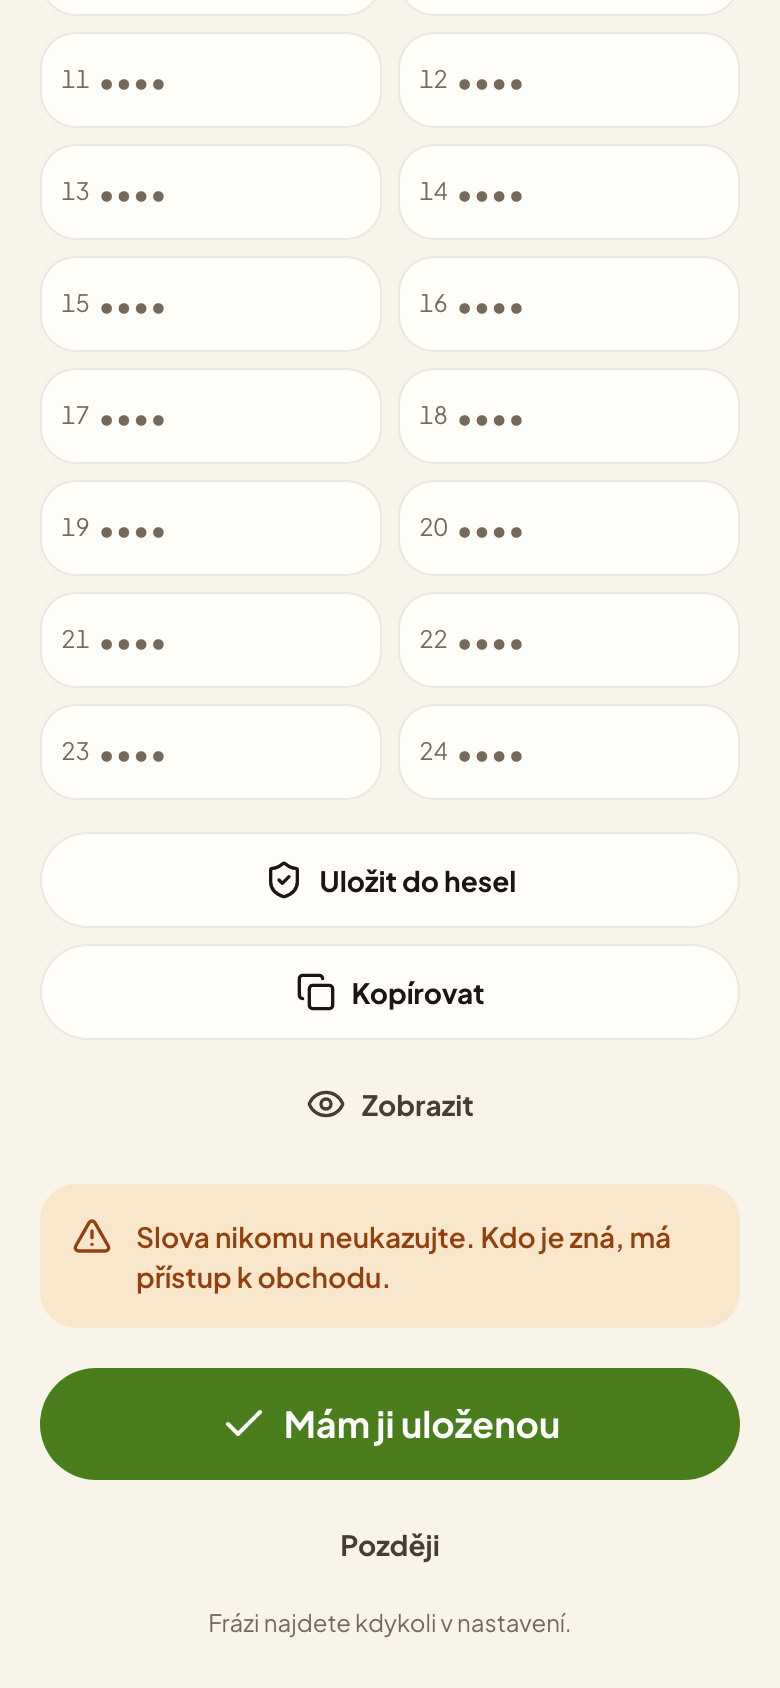
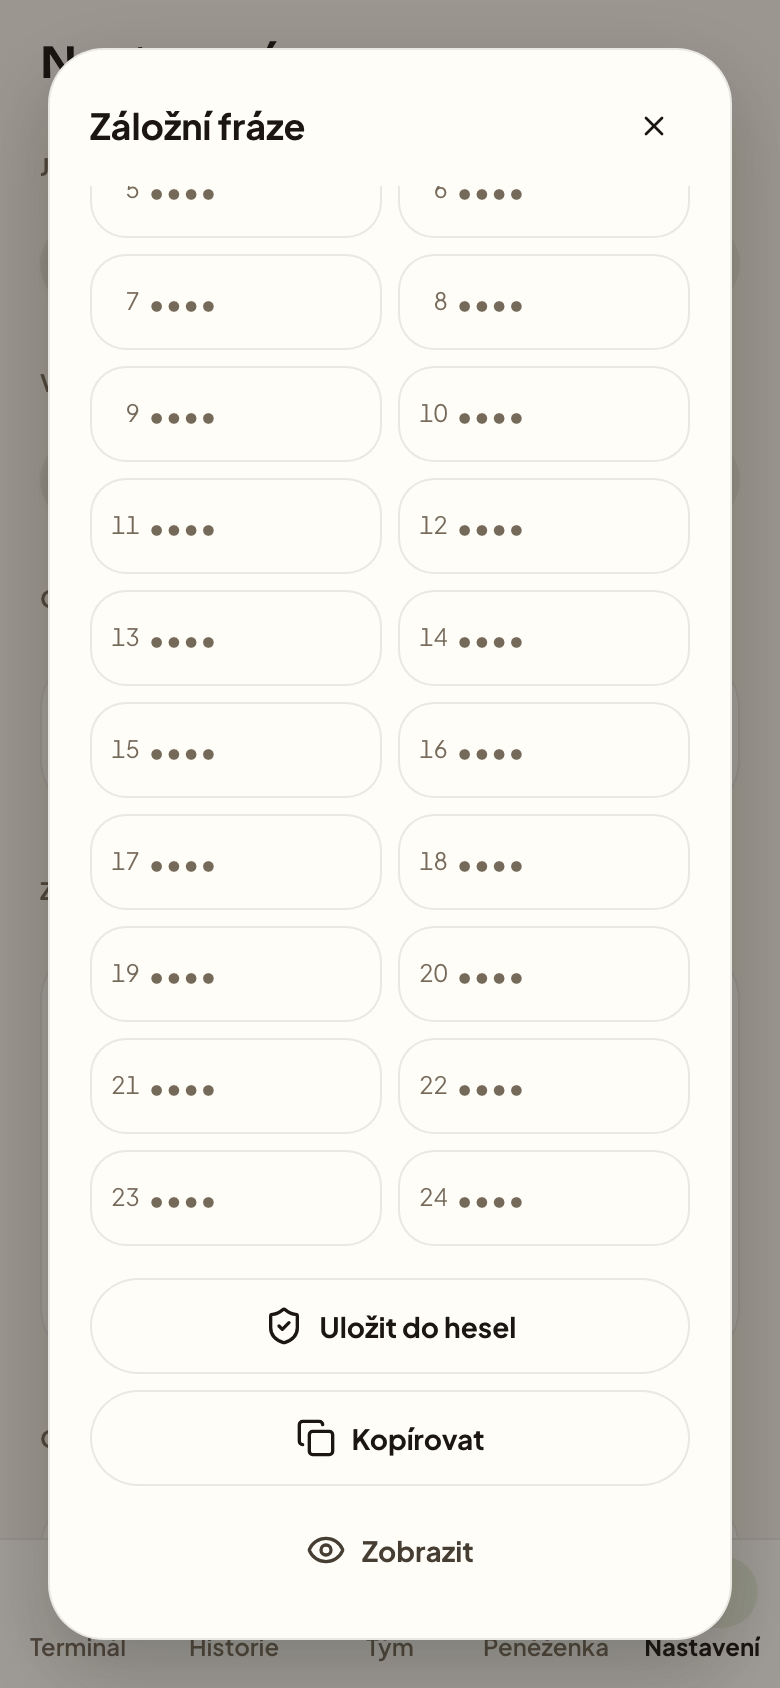
feat(web-app): save the backup phrase to the password manager when setup finishes
Like Linky's onboarding, finishing the shop setup offers the phrase to the
browser's password manager and lands on the terminal; the separate backup
step is gone. Settings still shows the masked phrase to save again or copy.

diff --git a/apps/web-app/src/screens/BackupPhrase.tsx b/apps/web-app/src/screens/BackupPhrase.tsx
@@ -3,7 +3,7 @@ import type { Tone } from "@platitprosim/ui";
 import { useState } from "react";
 import { useI18n } from "../i18n";
 import type { I18nKey } from "../i18n";
-import { saveToPasswordManager } from "../passwordManager";
+import { saveBackupPhrase } from "../passwordManager";
 import { useIdentity, useShopProfile } from "../storage";
 
 type Feedback = "copied" | "copyFailed" | "saved" | "unsupported" | "failed";
@@ -19,7 +19,8 @@ const feedbackNotices: Record<Feedback, { title: I18nKey; tone: Tone }> = {
 /** The install's backup phrase, masked until revealed, to save to a password manager or copy. */
 export function BackupPhrase() {
   const { t } = useI18n();
-  const { mnemonic, keys } = useIdentity();
+  const identity = useIdentity();
+  const { mnemonic } = identity;
   const shopName = useShopProfile()?.name ?? t("appName");
   const words = mnemonic.split(" ");
   const [visible, setVisible] = useState(false);
@@ -34,13 +35,7 @@ export function BackupPhrase() {
     }
   };
   const save = async () =>
-    setFeedback(
-      await saveToPasswordManager({
-        id: `fazole.fit:${keys.nostr.npub}`,
-        name: shopName,
-        password: mnemonic,
-      }),
-    );
+    setFeedback(await saveBackupPhrase(identity, shopName));
 
   const notice = feedback ? feedbackNotices[feedback] : null;
   return (

diff --git a/apps/web-app/src/screens/SetupShopScreen.tsx b/apps/web-app/src/screens/SetupShopScreen.tsx
@@ -2,7 +2,8 @@ import { Button, Screen, Stack, Text, TopBar } from "@platitprosim/ui";
 import { useState } from "react";
 import { useI18n } from "../i18n";
 import { navigateTo } from "../routing";
-import { saveShop, useAppEvolu } from "../storage";
+import { saveBackupPhrase } from "../passwordManager";
+import { saveShop, useAppEvolu, useIdentity } from "../storage";
 import { BackButton } from "./BackButton";
 import { ShopFields } from "./ShopFields";
 import { useShopForm } from "./shopForm";
@@ -10,6 +11,7 @@ import { useShopForm } from "./shopForm";
 export function SetupShopScreen() {
   const { t } = useI18n();
   const evolu = useAppEvolu();
+  const identity = useIdentity();
   const form = useShopForm();
   const [saving, setSaving] = useState(false);
 
@@ -18,7 +20,8 @@ export function SetupShopScreen() {
     if (!details) return;
     setSaving(true);
     await saveShop(evolu, details);
-    navigateTo("backup");
+    await saveBackupPhrase(identity, details.name);
+    navigateTo("terminal");
   };
 
   return (

diff --git a/apps/web-app/src/passwordManager.ts b/apps/web-app/src/passwordManager.ts
@@ -1,3 +1,5 @@
+import type { Identity } from "./storage";
+
 interface PasswordCredentialData {
   id: string;
   name: string;
@@ -15,7 +17,7 @@ const isPasswordCredential = (
   value: unknown,
 ): value is PasswordCredentialConstructor => typeof value === "function";
 
-/** Offers a secret to the browser's password manager, e.g. the backup phrase under the shop's name. */
+/** Offers a secret to the browser's password manager. */
 export const saveToPasswordManager = async (
   credential: PasswordCredentialData,
 ): Promise<PasswordManagerSaveResult> => {
@@ -32,3 +34,14 @@ export const saveToPasswordManager = async (
     return "failed";
   }
 };
+
+/** Offers the backup phrase under the shop's name, keyed by the device so a re-save updates it. */
+export const saveBackupPhrase = (
+  { mnemonic, keys }: Identity,
+  shopName: string,
+): Promise<PasswordManagerSaveResult> =>
+  saveToPasswordManager({
+    id: `fazole.fit:${keys.nostr.npub}`,
+    name: shopName,
+    password: mnemonic,
+  });

diff --git a/apps/web-app/src/routing.test.ts b/apps/web-app/src/routing.test.ts
@@ -30,7 +30,6 @@ describe("resolveRoute", () => {
     expect(resolveRoute("restoring", null)).toBe("restoring");
     expect(resolveRoute("employee", null)).toBe("employee");
     expect(resolveRoute("terminal", null)).toBe("welcome");
-    expect(resolveRoute("backup", null)).toBe("welcome");
     expect(resolveRoute(paymentRoute("x"), null)).toBe("welcome");
   });
 
@@ -44,7 +43,6 @@ describe("resolveRoute", () => {
       expect(resolveRoute(route, "owner")).toBe("terminal");
     }
     expect(resolveRoute("history", "owner")).toBe("history");
-    expect(resolveRoute("backup", "owner")).toBe("backup");
     expect(resolveRoute("restore", "owner")).toBe("restore");
     expect(resolveRoute(paymentRoute("x"), "owner")).toBe("pay/x");
   });

diff --git a/apps/web-app/src/shell/AppShell.tsx b/apps/web-app/src/shell/AppShell.tsx
@@ -25,7 +25,6 @@ import {
   useRoute,
 } from "../routing";
 import type { Flow, Section } from "../routing";
-import { BackupScreen } from "../screens/BackupScreen";
 import { EmployeeScreen } from "../screens/EmployeeScreen";
 import { EmployeesScreen } from "../screens/EmployeesScreen";
 import { HistoryScreen } from "../screens/HistoryScreen";
@@ -55,7 +54,6 @@ const sectionScreens: Record<
 const flowScreens: Record<Flow, ComponentType> = {
   welcome: WelcomeScreen,
   setup: SetupShopScreen,
-  backup: BackupScreen,
   restore: RestoreScreen,
   restoring: RestoringScreen,
   employee: EmployeeScreen,

diff --git a/apps/web-app/src/routing.ts b/apps/web-app/src/routing.ts
@@ -15,7 +15,6 @@ export type Section = (typeof sections)[number];
 export const flows = [
   "welcome",
   "setup",
-  "backup",
   "restore",
   "restoring",
   "employee",
@@ -78,9 +77,7 @@ export const resolveRoute = (
       ? route
       : "welcome";
   }
-  if (route === "backup" || route === "restore" || isPaymentRoute(route)) {
-    return route;
-  }
+  if (route === "restore" || isPaymentRoute(route)) return route;
   return isSection(route) && sectionsFor(role).includes(route)
     ? route
     : "terminal";

diff --git a/apps/web-app/src/i18n/en.ts b/apps/web-app/src/i18n/en.ts
@@ -51,9 +51,6 @@ export const en: Record<keyof typeof cs, string> = {
   backupSaveUnavailable:
     "This browser can't save the phrase to a password manager. Copy it instead.",
   backupSaveFailed: "Saving to the password manager failed.",
-  backupDone: "I've saved it",
-  backupLater: "Later",
-  backupLaterHint: "You'll find the phrase in Settings at any time.",
 
   restoreTitle: "Restore from a backup phrase",
   restoreDescription:

diff --git a/apps/web-app/src/i18n/cs.ts b/apps/web-app/src/i18n/cs.ts
@@ -48,9 +48,6 @@ export const cs = {
   backupSaveUnavailable:
     "Tento prohlížeč neumí uložit frázi do správce hesel. Zkopírujte ji.",
   backupSaveFailed: "Uložení do správce hesel se nepovedlo.",
-  backupDone: "Mám ji uloženou",
-  backupLater: "Později",
-  backupLaterHint: "Frázi najdete kdykoli v nastavení.",
 
   restoreTitle: "Obnovit ze záložní fráze",
   restoreDescription:

diff --git a/docs/SPEC.md b/docs/SPEC.md
@@ -39,7 +39,7 @@ One install is either an **owner** (it has a `shop` row) or an **employee** (it 
 ### Owner onboarding
 
 1. The owner chooses "Set up a shop", then enters the shop name and a Czech bank account (`[prefix-]number/bankCode`). The account is validated (mod-11 checks) and converted to an IBAN.
-2. The app creates the identity and offers the backup phrase, masked until revealed, to save to the browser's password manager or copy. The owner can skip this step, and the phrase stays available in Settings.
+2. The app creates the identity and offers its backup phrase to the browser's password manager under the shop name. Settings shows the phrase, masked until revealed, to save to the password manager again or copy.
 3. The owner lands on the terminal.
 
 ### Restore
